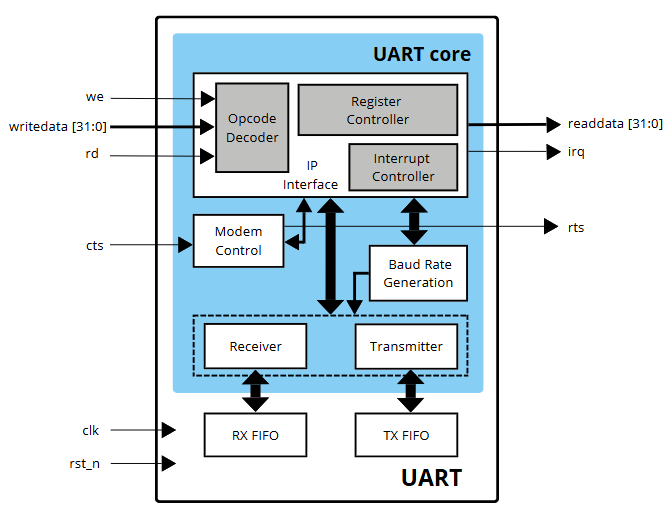
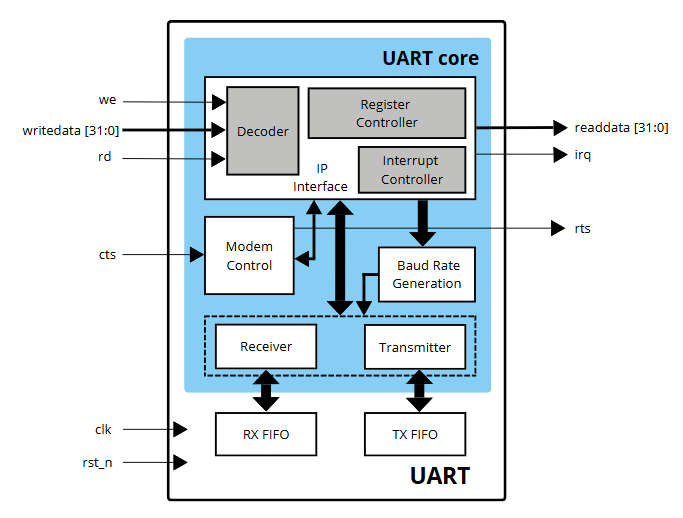
doc: atualização do README com adição da figura da arquitetura total do projeto e correção do nome da imagem do diagrama de blocos

Changed region(s): [[0.0, 0.0309, 1.0, 0.9884], [0.5, 0.8031, 0.5312, 0.8649]]

diff --git a/doc/Modulo de IO/README.md b/doc/Modulo de IO/README.md
@@ -438,7 +438,7 @@ A comunicação entre o processador e o módulo de I/O é realizada por meio do 
 A seguir, está o diagrama de blocos que ilustra a arquitetura completa do sistema, facilitando a visualização dessa estrutura.
 
 <div align="center">
-  <img src="img/to.png" width = "800" />
+  <img src="img/arqT.png" width = "800" />
 </div>
 <p align="center"><strong>Figura 15: Diagrama de blocos da arquitetura geral</strong></p>
 

diff --git a/README.md b/README.md
@@ -70,6 +70,14 @@ Realidade Aumentada Usando FPGA
 <strong> Tabela 10: Pinagem dos botões e analogico</strong></p>
 
 
+<p align="center">
+  <img src="img/arqtotal.png" width = "700" />
+</p>
+<p align="center">
+<strong> Figura 1: Arquitetura total do projeto</strong></p>
+
+
+
 </div>
 </div>
 
